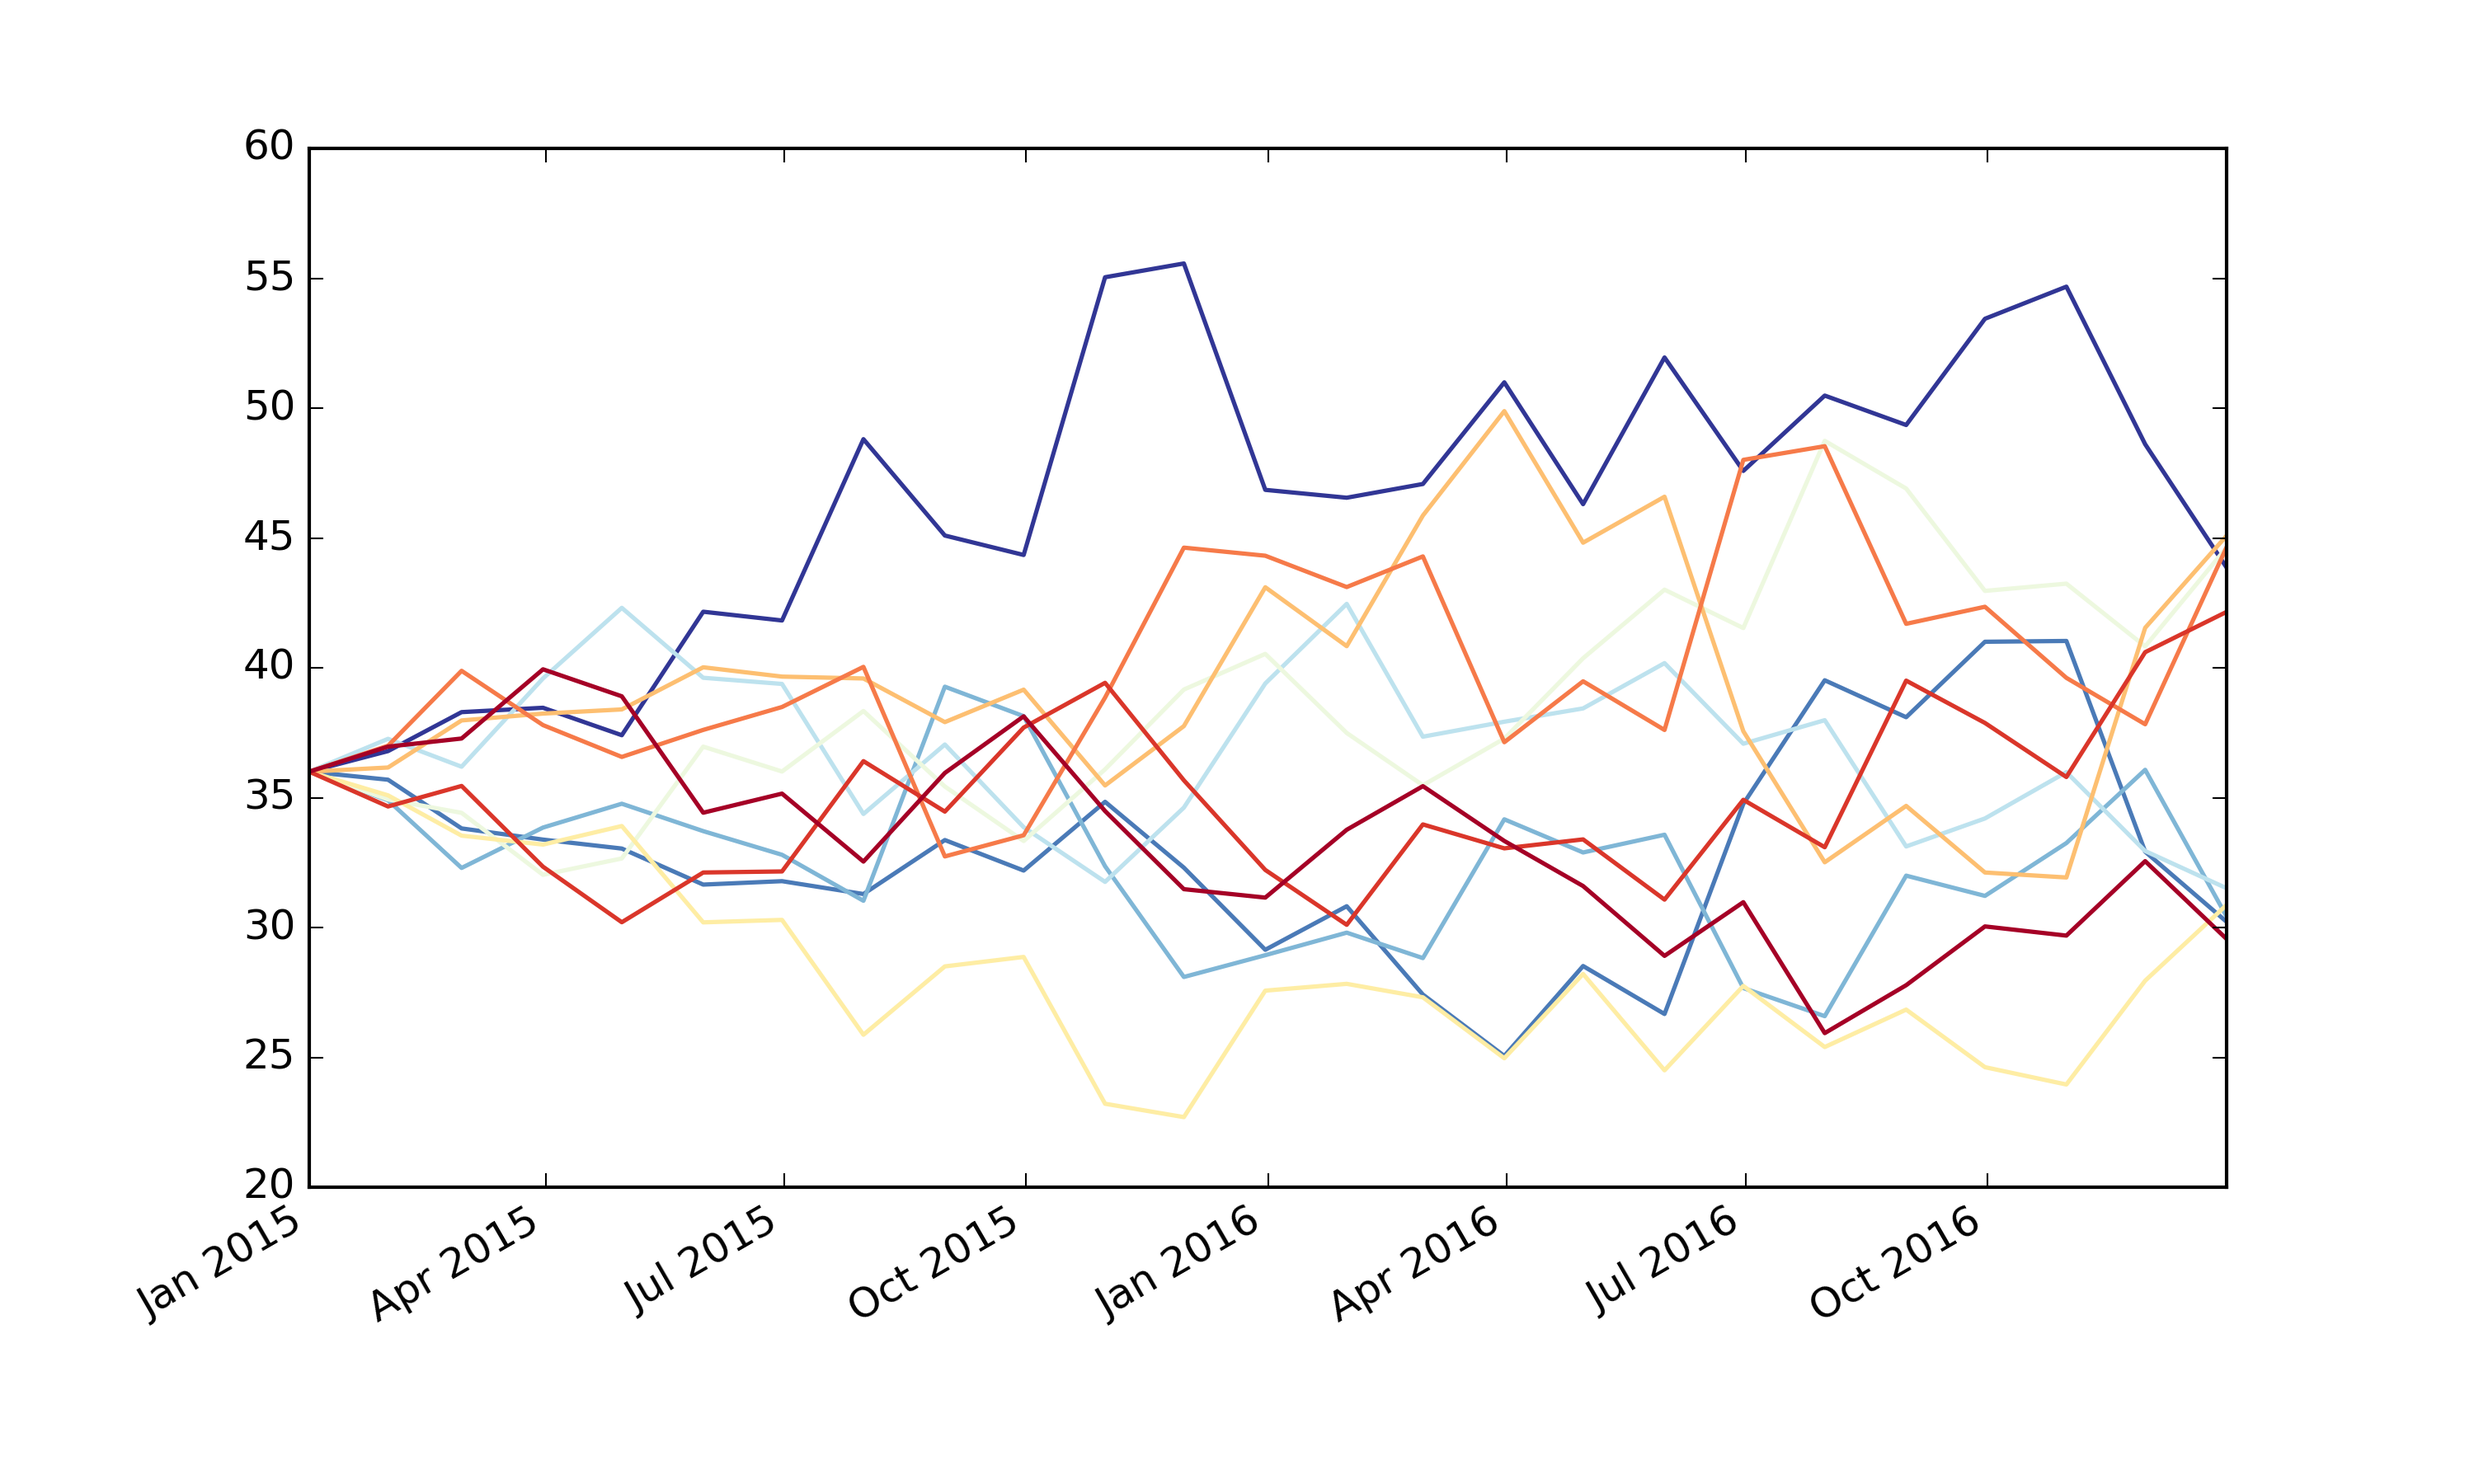
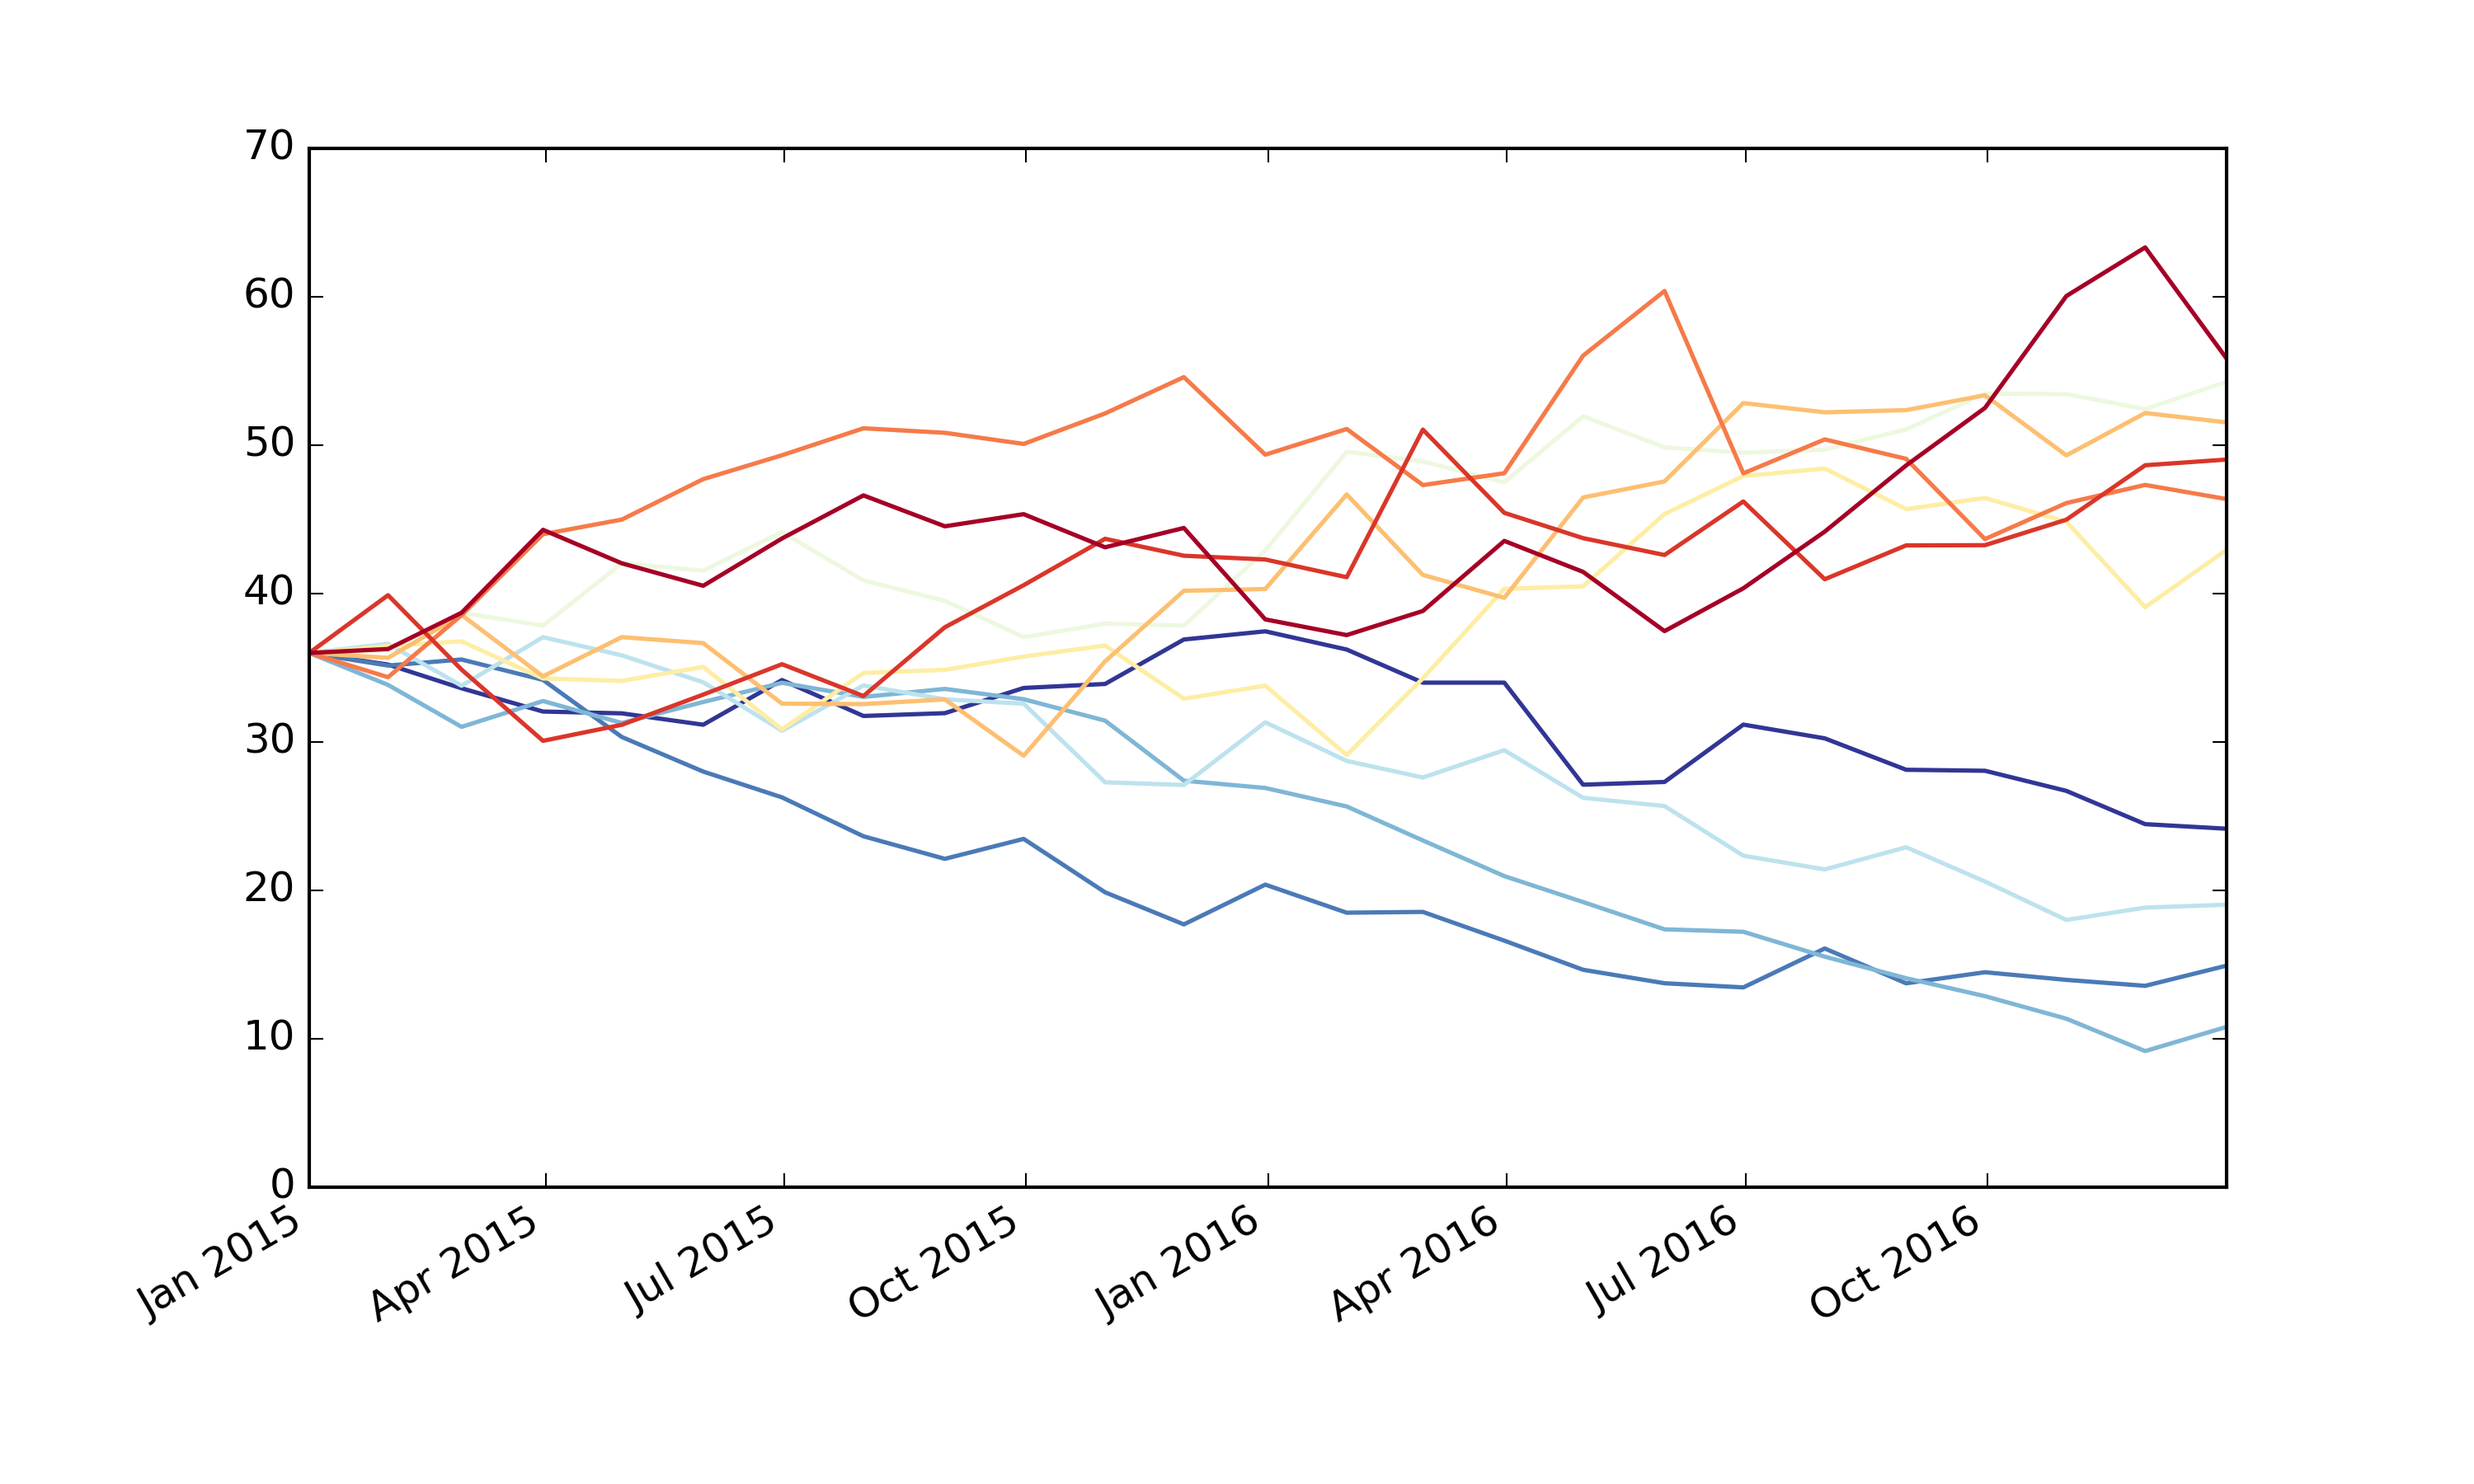
done with stoch vol, can move onto next example

diff --git a/dx/models/stochastic_volatility.py b/dx/models/stochastic_volatility.py
@@ -76,6 +76,7 @@ class stochastic_volatility(simulation_class):
             sn1 = sn_random_numbers((1, M, I),
                                     fixed_seed=fixed_seed)
         else:
+            # Pseudo random numbers for the monte carlo
             sn1 = self.random_numbers
         
         # Pseudo-random numbers for the stochastic volatility
@@ -92,30 +93,28 @@ class stochastic_volatility(simulation_class):
             else:
                 ran = np.dot(self.cholesky_matrix, sn1[:, t, :])
                 ran = ran[self.rn_set]
+            
+            # rat = the pair of random numbers we need for each path
             rat = np.array([ran, sn2[t]])
             rat = np.dot(self.leverage, rat)
 
-            pdb.set_trace()
             # Heston Model of Stochastic volatility
-            va_[t] = (va_[t - 1] + self.kappa *
-                      (self.theta - np.maximum(0, va_[t - 1])) * dt +
-                      np.sqrt(np.maximum(0, va_[t - 1])) *
-                      self.vol_vol * np.sqrt(dt) * rat[1])
+            # instantaneous vol will move from intial vol (va_[0]**2) to long term variance (theta)
+            # at the rate of kappa as the path gets further
+            va_[t] = (va_[t - 1] + self.kappa * (self.theta - np.maximum(0, va_[t - 1])) * dt \
+                     + np.sqrt(np.maximum(0, va_[t - 1])) * self.vol_vol * np.sqrt(dt) * rat[1])
             va[t] = np.maximum(0, va_[t])
 
-            pdb.set_trace()
             # Assume an average of the staring and ending forward rates over the period
             rt = (forward_rates[t - 1] + forward_rates[t]) / 2
             
-            # TODO
-            paths[t] = paths[t - 1] * (
-                np.exp((rt - 0.5 * va[t]) * dt +
+            # Normal Geometric Brownian motion after stochastic volatility
+            paths[t] = paths[t - 1] * (np.exp((rt - 0.5 * va[t]) * dt +
                        np.sqrt(va[t]) * np.sqrt(dt) * rat[0]))
             
-            # TODO
             # moment matching stoch vol part
-            paths[t] -= np.mean(paths[t - 1] * np.sqrt(va[t]) *
-                                math.sqrt(dt) * rat[0])
+            # moment matching ensures std dev = 1 for normal distribution
+            paths[t] -= np.mean(paths[t - 1] * np.sqrt(va[t]) * math.sqrt(dt) * rat[0])
 
         self.instrument_values = paths
         self.volatility_values = np.sqrt(va)

diff --git a/dx/frame.py b/dx/frame.py
@@ -56,7 +56,7 @@ def get_year_deltas(time_list, day_count=365.):
     return np.array(delta_list)
 
 
-def sn_random_numbers(shape, antithetic=True, moment_matching=True, fixed_seed=False):
+def sn_random_numbers(shape, antithetic=False, moment_matching=True, fixed_seed=False):
     ''' Return an array of shape "shape" with (pseudo-) random numbers
     which are standard normally distributed.
     Parameters
@@ -76,12 +76,14 @@ def sn_random_numbers(shape, antithetic=True, moment_matching=True, fixed_seed=F
     if fixed_seed is True:
         np.random.seed(1000)
     if antithetic is True:
+        # antithetic ensures mean = 0 for normal distribution
         ran = np.random.standard_normal(
             (shape[0], shape[1], int(shape[2] / 2)))
         ran = np.concatenate((ran, -ran), axis=2)
     else:
         ran = np.random.standard_normal(shape)
     if moment_matching is True:
+        # moment matching ensures std dev = 1 for normal distribution
         ran = ran - np.mean(ran)
         ran = ran / np.std(ran)
     if shape[0] == 1:

diff --git a/scrap_work/scrap.py b/scrap_work/scrap.py
@@ -158,7 +158,7 @@ def stoch_volatility():
     dates = [dt.datetime(2015, 1, 1), dt.datetime(2016, 1, 1), dt.datetime(2020, 1, 1), dt.datetime(2025, 1, 1)]
     dsr = deterministic_short_rate('dsr', list(zip(dates, yields)))
     
-    no_paths = 2
+    no_paths = 10
     
     me = market_environment('me', dt.datetime(2015, 1, 1))
     me.add_constant('initial_value', 36.)
